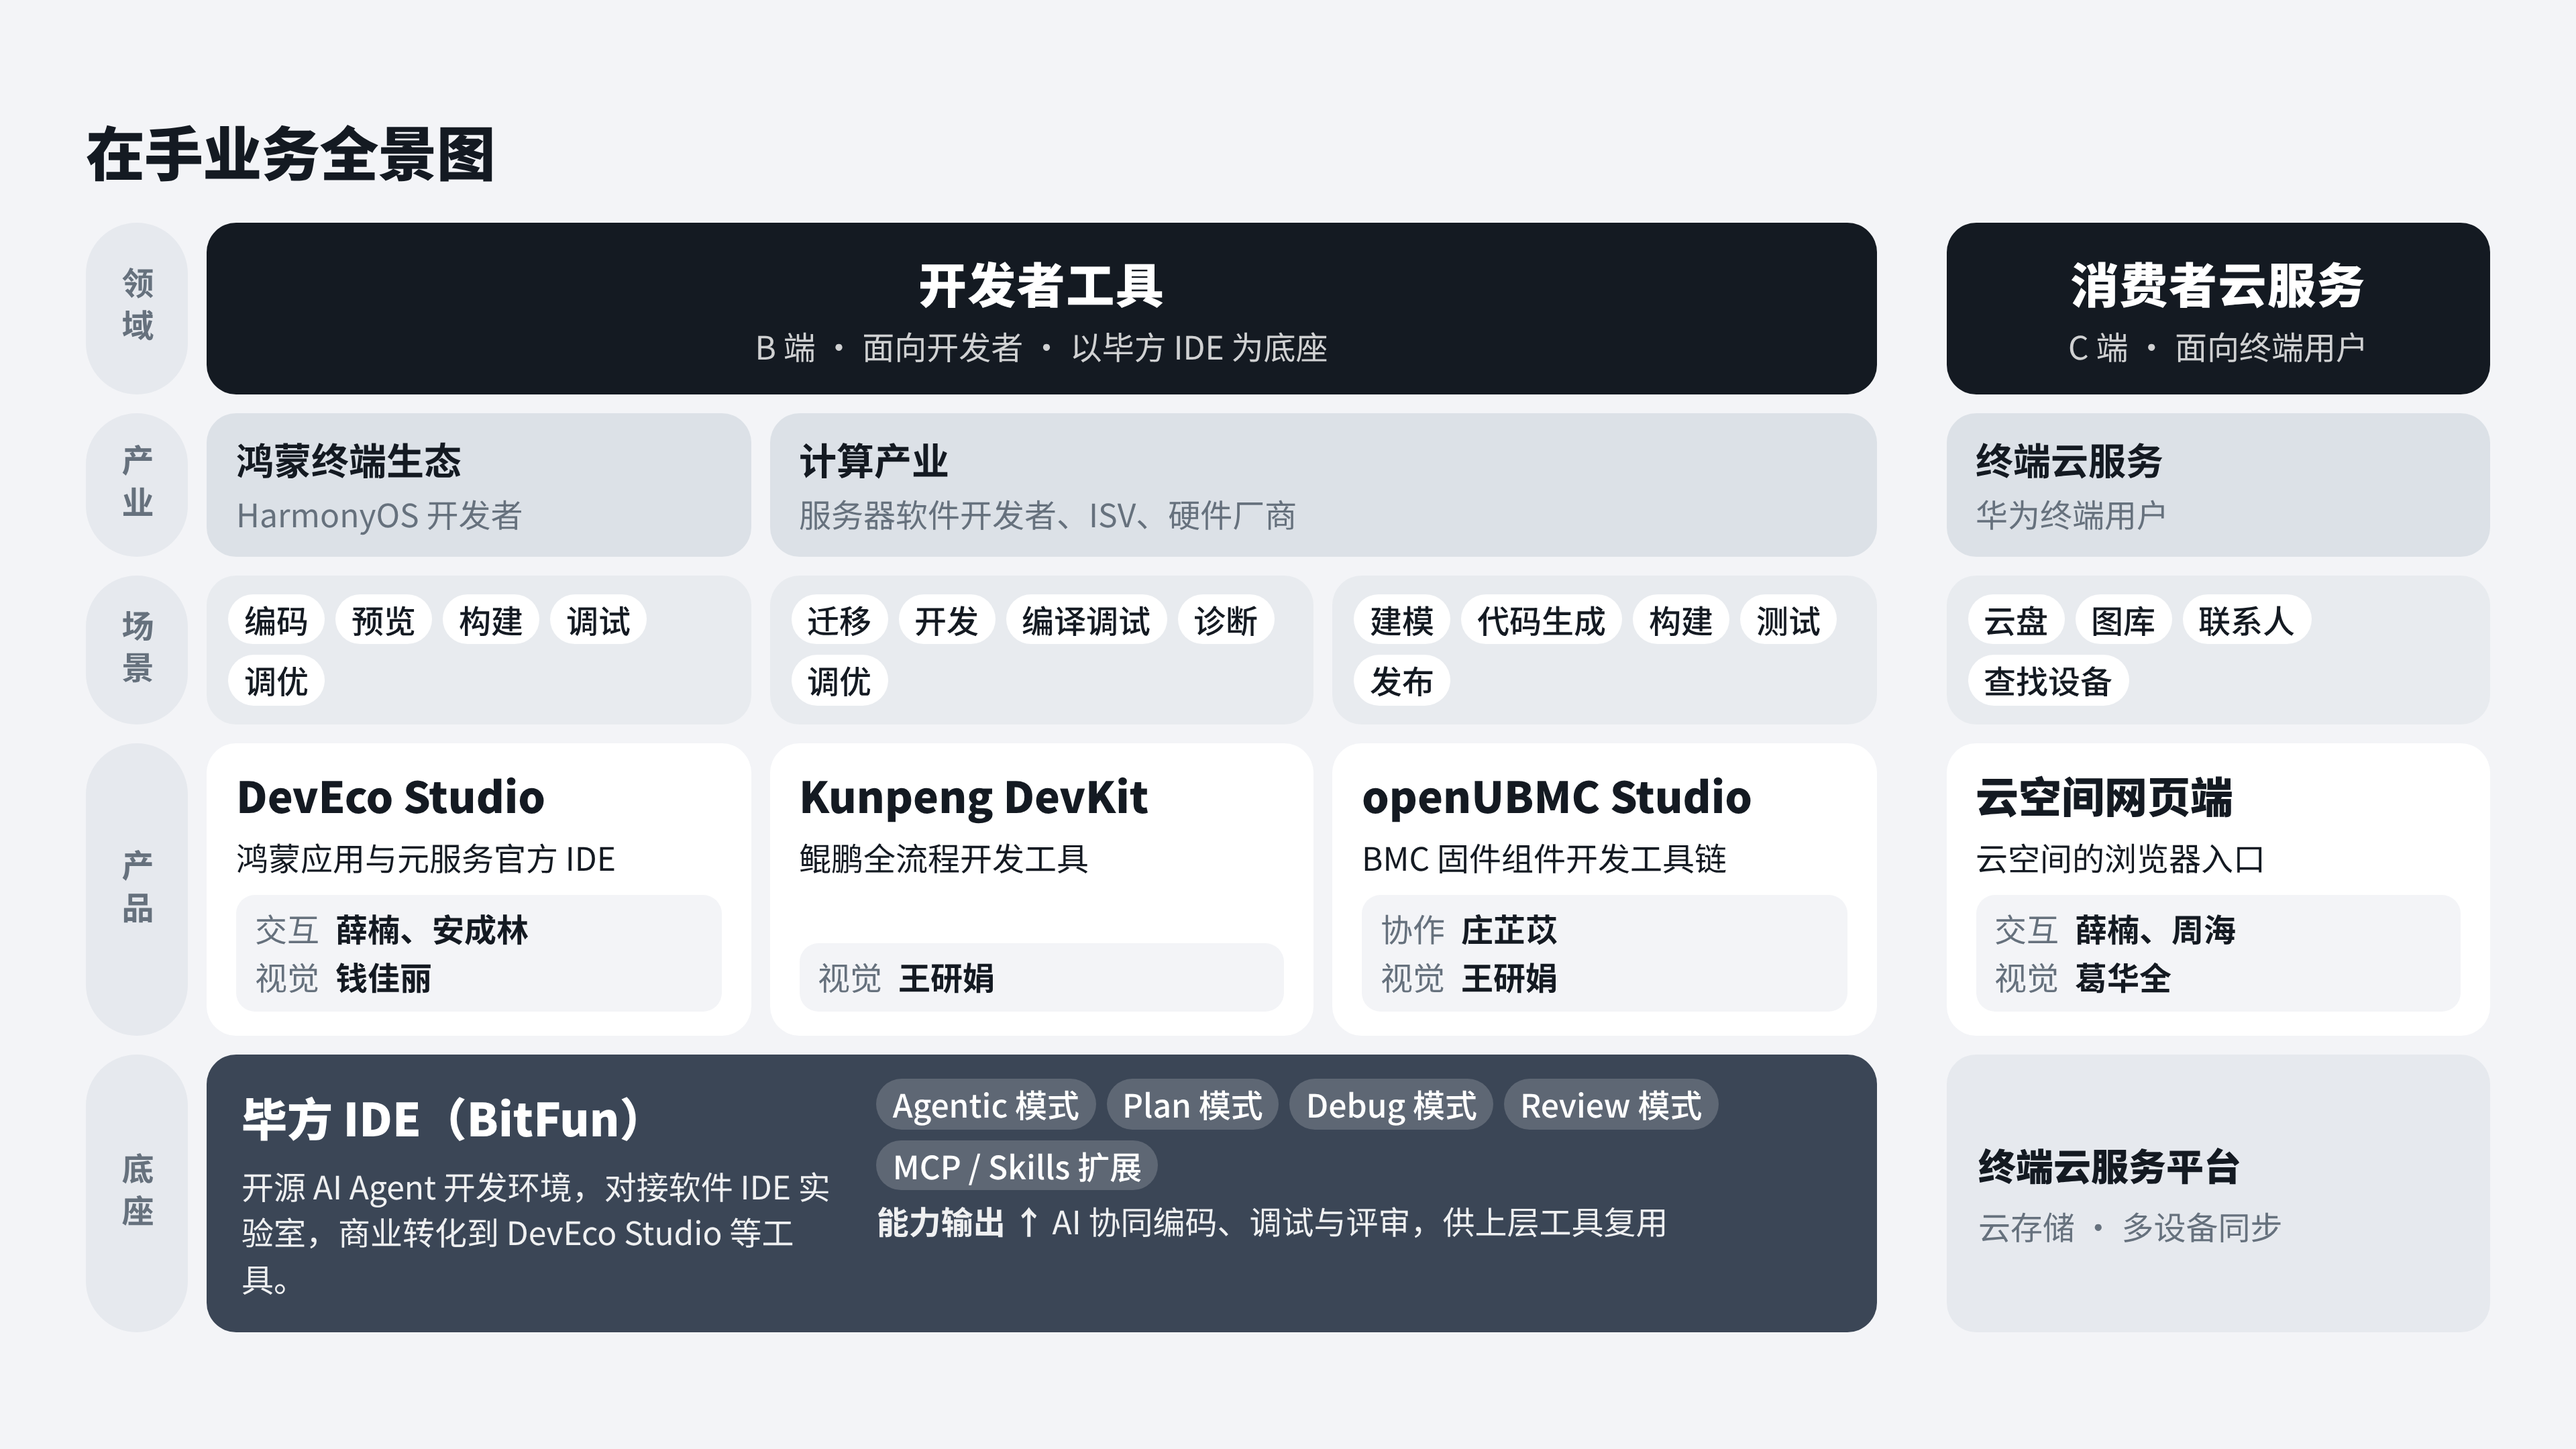
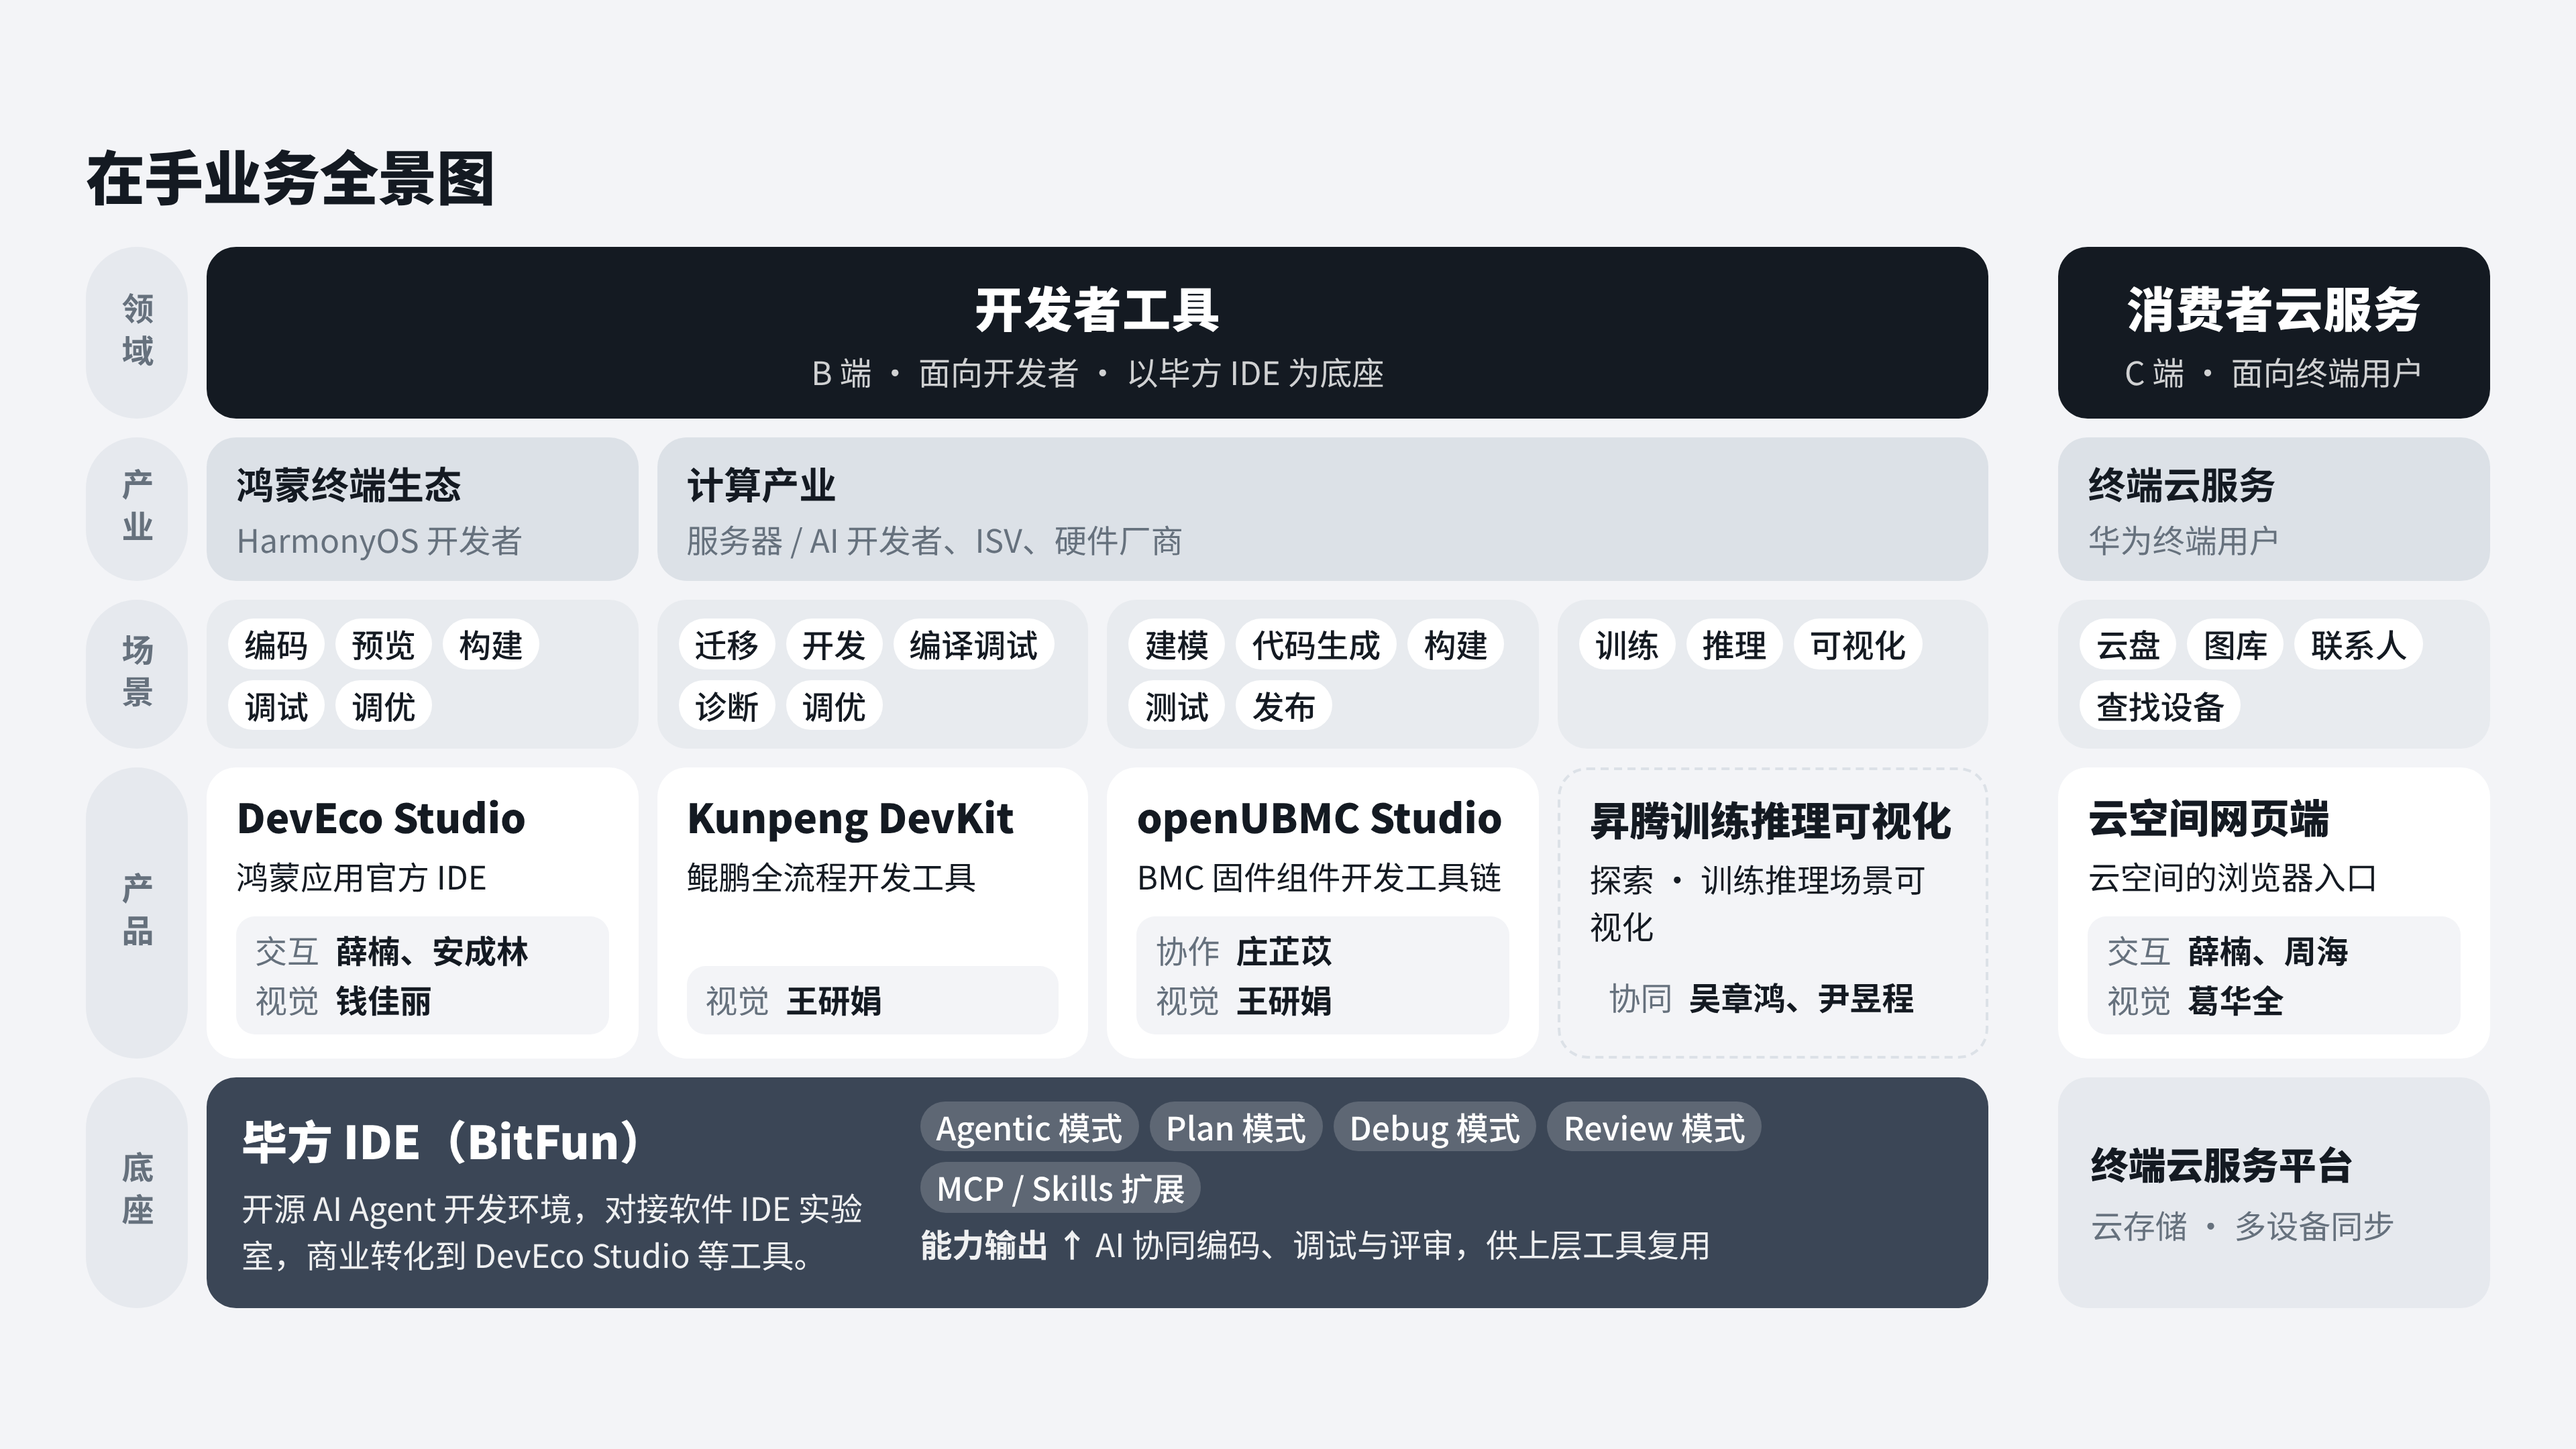
全景图：计算产业下新增昇腾训练推理可视化探索
Claude-Session: https://claude.ai/code/session_016L8byhbgGDrMXiHgMPJmHg

diff --git a/业务全景图/在手业务全景图.html b/业务全景图/在手业务全景图.html
@@ -38,14 +38,15 @@ header h1{font-family:var(--f-display);font-weight:900;font-size:clamp(30px,4.6v
 header p{margin:0;color:var(--muted);max-width:56em;font-size:15px}
 .eyebrow{font-family:var(--f-mono);font-size:12px;letter-spacing:.14em;text-transform:uppercase;color:var(--muted)}
 
-.house{display:grid;grid-template-columns:72px repeat(3,minmax(0,1fr)) 22px minmax(0,1fr);gap:14px;align-items:stretch}
-.house > .k6{grid-column:6}
+.house{display:grid;grid-template-columns:72px repeat(4,minmax(0,1fr)) 22px minmax(0,1fr);gap:14px;align-items:stretch}
+.house > .k6{grid-column:7}
+.span3{grid-column:span 3}
 .span2{grid-column:span 2}
 .lab{display:flex;align-items:center;justify-content:center;writing-mode:vertical-rl;letter-spacing:.4em;
   font-weight:700;font-size:13px;color:var(--muted);background:var(--soft);border-radius:999px;padding:14px 0}
 
 .roof{background:var(--roof);color:var(--on);border-radius:var(--r);padding:26px 28px;text-align:center;display:flex;flex-direction:column;justify-content:center}
-.roof.dev{grid-column:2 / 5} .roof.cons{grid-column:6}
+.roof.dev{grid-column:2 / 6} .roof.cons{grid-column:7}
 .roof h2{font-family:var(--f-display);font-size:clamp(22px,2.8vw,30px);margin:0 0 4px;font-weight:900;letter-spacing:.02em}
 .roof.cons h2{font-size:clamp(20px,2.2vw,26px)}
 .roof p{margin:0;opacity:.75;font-size:13.5px}
@@ -64,6 +65,7 @@ header p{margin:0;color:var(--muted);max-width:56em;font-size:15px}
 .room h3{margin:0;font-size:21px;line-height:1.25;font-weight:900}
 .room .tag{font-family:var(--f-mono);font-size:10.5px;letter-spacing:.1em;text-transform:uppercase;align-self:flex-start;padding:3px 10px;border-radius:999px}
 .room .tag{color:var(--muted);background:var(--bg)}
+.room.explore{background:transparent;border:2px dashed var(--blk)}
 .room .pos{margin:0;font-size:13.5px}
 .room ul{margin:0;padding-left:1.1em;font-size:12.5px;color:var(--muted)}
 .room ul li{margin:2px 0}
@@ -100,7 +102,7 @@ tbody tr td:first-child{border-radius:12px 0 0 12px} tbody tr td:last-child{bord
 @media (max-width:860px){
   .house{grid-template-columns:minmax(0,1fr)}
   .lab{writing-mode:horizontal-tb;justify-content:flex-start;padding:6px 16px;align-self:flex-start;letter-spacing:.2em;margin-top:10px}
-  .roof,.span2,.house > .k6,.roof.dev,.roof.cons,.house > .found{grid-column:auto!important}
+  .roof,.span2,.span3,.house > .k6,.roof.dev,.roof.cons,.house > .found{grid-column:auto!important}
   .house > .k6,.roof.cons{order:1}
   .roof.cons{margin-top:28px}
   .found{grid-template-columns:minmax(0,1fr)}
@@ -113,7 +115,7 @@ tbody tr td:first-child{border-radius:12px 0 0 12px} tbody tr td:last-child{bord
   <header>
     <div class="eyebrow">Cindy · 业务领域全景 · 2026.10</div>
     <h1>在手业务全景图</h1>
-    <p>两大板块：开发者工具以「毕方 IDE」为底座，支撑鸿蒙终端、计算两条产业线的 IDE 与工具链；消费者云服务负责云空间网页端。</p>
+    <p>两大板块：开发者工具以「毕方 IDE」为底座，支撑鸿蒙终端、计算两条产业线的 IDE 与工具链，并探索昇腾训练推理可视化；消费者云服务负责云空间网页端。</p>
   </header>
 
   <section class="house" aria-label="业务全景房子图">
@@ -131,7 +133,7 @@ tbody tr td:first-child{border-radius:12px 0 0 12px} tbody tr td:last-child{bord
     <!-- 产业 -->
     <div class="lab">产业</div>
     <div class="ind h"><b>鸿蒙终端生态</b><span>HarmonyOS 应用与元服务开发者</span></div>
-    <div class="ind c span2"><b>计算产业</b><span>服务器软件开发者、ISV、整机与硬件厂商</span></div>
+    <div class="ind c span3"><b>计算产业</b><span>服务器软件开发者、ISV、硬件厂商、AI 开发者</span></div>
     <div class="ind k k6"><b>终端云服务</b><span>使用华为账号的终端消费者</span></div>
 
     <!-- 场景 -->
@@ -147,6 +149,10 @@ tbody tr td:first-child{border-radius:12px 0 0 12px} tbody tr td:last-child{bord
     <div class="scn c">
       <span class="chip">组件建模</span><span class="chip">代码生成</span><span class="chip">构建</span><span class="chip">测试</span><span class="chip">发布</span>
       <span class="flow">服务器管理固件（BMC）组件开发全流程</span>
+    </div>
+    <div class="scn c">
+      <span class="chip">模型训练</span><span class="chip">模型推理</span><span class="chip">过程可视化</span>
+      <span class="flow">昇腾 AI 训练 / 推理过程的可视化呈现</span>
     </div>
     <div class="scn k k6">
       <span class="chip">云盘文件</span><span class="chip">图库</span><span class="chip">联系人 / 备忘录</span><span class="chip">查找设备</span>
@@ -193,6 +199,12 @@ tbody tr td:first-child{border-radius:12px 0 0 12px} tbody tr td:last-child{bord
       <dl class="team"><dt>协作</dt><dd>庄芷苡</dd><dt>视觉</dt><dd>王研娟</dd></dl>
       <a href="https://www.openubmc.cn/zh/marketplace/openUBMC%20Studio" target="_blank" rel="noopener">官网 ↗</a>
     </article>
+    <article class="room c explore">
+      <span class="tag">Ascend · 探索</span>
+      <h3>昇腾训练推理可视化</h3>
+      <p class="pos">昇腾模型训练、推理场景的可视化设计探索。</p>
+      <dl class="team"><dt>协同</dt><dd>吴章鸿、尹昱程</dd></dl>
+    </article>
     <article class="room k k6">
       <span class="tag">Consumer Web</span>
       <h3>云空间网页端</h3>
@@ -208,7 +220,7 @@ tbody tr td:first-child{border-radius:12px 0 0 12px} tbody tr td:last-child{bord
 
     <!-- 底座 -->
     <div class="lab">底座</div>
-    <div class="found" style="grid-column:span 3">
+    <div class="found" style="grid-column:span 4">
       <div>
         <span class="tag">IDE Foundation · 对接软件 IDE 实验室</span>
         <h3>毕方 IDE（BitFun）</h3>
@@ -240,6 +252,7 @@ tbody tr td:first-child{border-radius:12px 0 0 12px} tbody tr td:last-child{bord
           <tr><td><span class="dot" style="background:var(--harmony)"></span>DevEco Studio</td><td>鸿蒙终端</td><td>产品</td><td>薛楠、安成林</td><td>钱佳丽</td></tr>
           <tr><td><span class="dot" style="background:var(--compute)"></span>Kunpeng DevKit</td><td>计算产业</td><td>产品</td><td class="tbd">待补充</td><td>王研娟</td></tr>
           <tr><td><span class="dot" style="background:var(--compute)"></span>openUBMC Studio</td><td>计算产业</td><td>产品</td><td>庄芷苡（协作）</td><td>王研娟</td></tr>
+          <tr><td><span class="dot" style="background:var(--compute)"></span>昇腾训练推理可视化</td><td>计算产业</td><td>探索</td><td colspan="2">协同：吴章鸿、尹昱程</td></tr>
           <tr><td><span class="dot" style="background:var(--cloud)"></span>云空间网页端</td><td>终端云服务</td><td>产品</td><td>薛楠、周海</td><td>葛华全</td></tr>
           <tr><td><span class="dot" style="background:var(--accent)"></span>毕方 IDE</td><td>跨产业</td><td>底座</td><td colspan="2">对接：软件 IDE 实验室<span class="tbd">（设计协作人待补充）</span></td></tr>
         </tbody>

diff --git a/site/tools/slide-16x9.js b/site/tools/slide-16x9.js
@@ -4,7 +4,7 @@ const CSS=`
 html,body{width:1920px;height:1080px;overflow:hidden;margin:0;padding:0!important}
 .wrap{max-width:none;width:1920px;padding:40px 64px;box-sizing:border-box;gap:28px;height:1080px;justify-content:center}
 header h1{font-size:44px}
-.house{grid-template-columns:76px repeat(3,minmax(0,1fr)) 24px minmax(0,1fr);gap:14px}
+.house{grid-template-columns:76px repeat(4,minmax(0,1fr)) 24px minmax(0,1fr);gap:14px}
 .lab{font-size:24px;letter-spacing:.3em}
 .roof{padding:16px 28px}
 .roof h2{font-size:36px!important;margin:0}
@@ -15,7 +15,7 @@ header h1{font-size:44px}
 .scn{padding:14px 16px;gap:8px}
 .chip{font-size:24px;padding:2px 12px;line-height:1.4}
 .room{padding:18px 22px;gap:10px}
-.room h3{font-size:32px}
+.room h3{font-size:30px;line-height:1.2}
 .room .pos{font-size:24px;line-height:1.45}
 .team{font-size:24px;padding:8px 14px;gap:2px 12px;line-height:1.45}
 .found{padding:18px 26px;gap:24px;grid-template-columns:minmax(0,1fr) minmax(0,1.6fr)}
@@ -37,10 +37,10 @@ await p.evaluate(()=>{const keep=['Agentic 模式','Plan 模式','Debug 模式',
 });
 await p.evaluate(()=>{
  const T=(sel,txt)=>{const e=document.querySelector(sel); if(e) e.textContent=txt;};
- const inds=document.querySelectorAll('.ind span'); ['HarmonyOS 开发者','服务器软件开发者、ISV、硬件厂商','华为终端用户'].forEach((t,i)=>inds[i]&&(inds[i].textContent=t));
- const sc=[['编码','预览','构建','调试','调优'],['迁移','开发','编译调试','诊断','调优'],['建模','代码生成','构建','测试','发布'],['云盘','图库','联系人','查找设备']];
+ const inds=document.querySelectorAll('.ind span'); ['HarmonyOS 开发者','服务器 / AI 开发者、ISV、硬件厂商','华为终端用户'].forEach((t,i)=>inds[i]&&(inds[i].textContent=t));
+ const sc=[['编码','预览','构建','调试','调优'],['迁移','开发','编译调试','诊断','调优'],['建模','代码生成','构建','测试','发布'],['训练','推理','可视化'],['云盘','图库','联系人','查找设备']];
  document.querySelectorAll('.scn').forEach((el,i)=>{el.innerHTML=sc[i].map(t=>'<span class="chip">'+t+'</span>').join('')});
- const pos=['鸿蒙应用与元服务官方 IDE','鲲鹏全流程开发工具','BMC 固件组件开发工具链','云空间的浏览器入口'];
+ const pos=['鸿蒙应用官方 IDE','鲲鹏全流程开发工具','BMC 固件组件开发工具链','探索 · 训练推理场景可视化','云空间的浏览器入口'];
  document.querySelectorAll('.room .pos').forEach((e,i)=>e.textContent=pos[i]);
  const d=document.querySelector('.dep'); d.innerHTML='<b>终端云服务平台</b><span>云存储 · 多设备同步</span>';
 });

diff --git a/site/catalog.js b/site/catalog.js
@@ -21,12 +21,12 @@ window.WORK_CATALOG = {
       items: [
         {
           title: '在手业务全景图',
-          desc: '按领域、产业、场景、产品、底座分层，梳理开发者工具（DevEco Studio、Kunpeng DevKit、openUBMC Studio、毕方 IDE）与消费者云服务（云空间网页端），并列出各项目交互 / 视觉协作人。',
+          desc: '按领域、产业、场景、产品、底座分层，梳理开发者工具（DevEco Studio、Kunpeng DevKit、openUBMC Studio、毕方 IDE）、昇腾训练推理可视化探索与消费者云服务（云空间网页端），并列出各项目交互 / 视觉协作人。',
           view: 'ready',
           date: '2026-10-28',
           href: '业务全景图/在手业务全景图.html',
           links: [{ label: '在线版（Claude）', href: 'https://claude.ai/artifact/RZBitR8MXpEjfHrHpQ5Gnq' }],
-          tags: ['全景图', 'DevEco Studio', 'Kunpeng DevKit', 'openUBMC Studio', '毕方 IDE', '云空间', '协作人'],
+          tags: ['全景图', 'DevEco Studio', 'Kunpeng DevKit', 'openUBMC Studio', '毕方 IDE', '云空间', '昇腾', '协作人'],
           thumb: { type: 'image', src: 'site/thumbs/domain-map.jpg' }
         }
       ]
